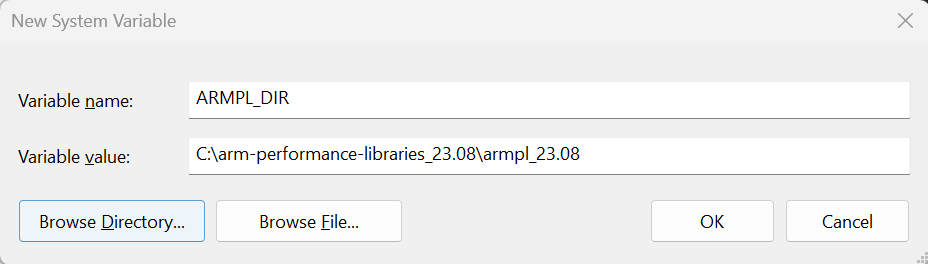
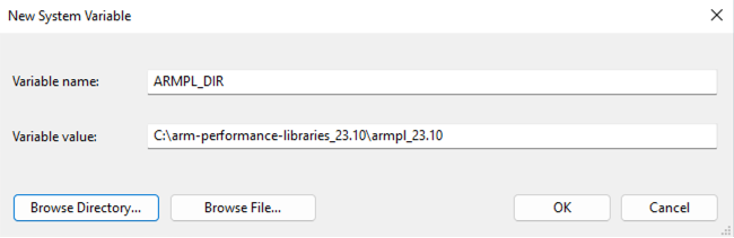
[SHOJICOMP-10872] Update armpl.md for 23.10 release version

diff --git a/themes/arm-design-system-hugo-theme/layouts/partials/general-formatting/metadata-table.html b/themes/arm-design-system-hugo-theme/layouts/partials/general-formatting/metadata-table.html
@@ -71,7 +71,7 @@ Called from:
             {{end}}
         {{ end }}
     {{end}}
-{{end}}  
+{{end}}
 
 <!-- Check if there are any matching learning paths to this tool (or the main tool) -->
 {{ if in $tools_software_languages (.Title | urlize)}}
@@ -121,7 +121,7 @@ Called from:
                         <td class="td-metadata-key">
                             Last updated:
                         </td>
-                        <td id="last-updated" class="td-metadata-value">                    
+                        <td id="last-updated" class="td-metadata-value">
                             <span><i class="fa-light fa-calendar-days fa-sm"></i></span>&nbsp; {{ .Lastmod.UTC.Format "2 Jan 2006" }}
                         </td>
                     </tr>
@@ -135,8 +135,8 @@ Called from:
                         </td>
                     </tr>
                 {{end}}
-                </table>     
-            </div>     
+                </table>
+            </div>
             <!-- RIGHT TABLE, mobile -->
             <div class="md:u-hide u-display-block">
                 <table class="width-max-content">
@@ -168,7 +168,7 @@ Called from:
                         </td>
                     </tr>
                     <tr>
-                        <td id="last-updated" class="td-metadata-value margin-l-24">                    
+                        <td id="last-updated" class="td-metadata-value margin-l-24">
                             <span><i class="fa-light fa-calendar-days fa-sm"></i></span>&nbsp; {{ .Lastmod.UTC.Format "2 Jan 2006" }}
                         </td>
                     </tr>
@@ -184,7 +184,7 @@ Called from:
                         </td>
                     </tr>
                 {{end}}
-                </table>   
+                </table>
             </div>
         </div>
         <!-- Second column table-->
@@ -204,7 +204,7 @@ Called from:
                                 {{- if $twitter_url -}}     <a href="{{$twitter_url}}"  target="_blank" aria-label="twitter"><i class="author-social-icon fab fa-twitter"></i></a>   {{- end -}}
                                 {{- if $website_url -}}     <a href='{{if in $website_url "http"}}{{$website_url | safeURL}}{{else}}https://{{$website_url | safeURL}}{{end}}'  target="_blank"  aria-label="author-social"><i class="author-social-icon fa  fa-blog"></i></a>      {{- end -}}
                             </span>
-                        </td>                        
+                        </td>
                     </tr>
                     <!-- Arm IP if learning path. Official Docs if tool -->
                     {{if $is_learning_path}}
@@ -213,7 +213,7 @@ Called from:
                                 Arm IP:
                             </td>
                             <td class="td-metadata-value">
-                                {{- range .Params.armips -}}<a href="https://developer.arm.com/Processors#q={{.}}" target="_blank" style="margin-right: 16px;">{{.}}{{ partial "general-formatting/external-link.html"}}</a>{{- end -}}    
+                                {{- range .Params.armips -}}<a href="https://developer.arm.com/Processors#q={{.}}" target="_blank" style="margin-right: 16px;">{{.}}{{ partial "general-formatting/external-link.html"}}</a>{{- end -}}
                             </td>
                         </tr>
                     {{else}}
@@ -244,7 +244,7 @@ Called from:
                                     <span class="u-flex u-flex-row u-align-items-center u-gap-1/2">
                                     <span class="fa-solid fa-tag"></span>
                                     {{ .Params.subjects }}
-                                </ads-tag> 
+                                </ads-tag>
                                 {{end}}
                                 {{ range .Params.operatingsystems }}
                                     <ads-tag    href='{{ "/" | relLangURL}}tag/{{. | urlize}}' style="margin-bottom: 4px;">
@@ -260,7 +260,7 @@ Called from:
                                         {{ . }}
                                     </ads-tag>
                                 {{ end }}
-                            </span>  
+                            </span>
                         </td>
                     </tr>
                     <!-- tool tags, if present in learning paths -->
@@ -275,14 +275,14 @@ Called from:
                                     <span class="u-flex u-flex-row u-align-items-center u-gap-1/2">
                                     <span class="fa-solid fa-tag"></span>
                                     {{$active_tag}}
-                                </ads-tag></span>                             
+                                </ads-tag></span>
                             </td>
                         </tr>
                         {{end}}
                     {{end}}
-                </table>   
+                </table>
             </div>
-            <!-- Table mobile-sized windows only -->   
+            <!-- Table mobile-sized windows only -->
             <div class="md:u-hide u-display-block">
                 <table>
                     <tr>
@@ -313,7 +313,7 @@ Called from:
                             <td class="td-metadata-value margin-l-24">
                                 {{- range .Params.armips -}}
                                     <a href="https://developer.arm.com/Processors#q={{.}}" target="_blank" style="margin-right: 16px;">{{.}}{{ partial "general-formatting/external-link.html"}}</a>
-                                {{- end -}}    
+                                {{- end -}}
                             </td>
                         </tr>
                     {{else}}
@@ -363,7 +363,7 @@ Called from:
                                         {{ . }}
                                     </ads-tag>
                                 {{ end }}
-                                </span>  
+                                </span>
                             </td>
                         </tr>
                     <!-- Tool tag, if present in learning paths -->
@@ -380,18 +380,18 @@ Called from:
                                     <span class="u-flex u-flex-row u-align-items-center u-gap-1/2">
                                     <span class="fa-solid fa-tag"></span>
                                     {{$active_tag}}
-                                </ads-tag></span>                             
+                                </ads-tag></span>
                             </td>
                         </tr>
                         {{end}}
                     {{end}}
 
-                </table>   
+                </table>
 
-            </div>                
+            </div>
         </div>
         {{if not $is_learning_path}}
             <p style="margin-top: 24px;">This guide is intended to get you up and running with this tool quickly with the most common settings. For a thorough review of all options, refer to the official documentation.</p>
         {{end}}
-    </div>            
+    </div>
 </div>

diff --git a/content/install-guides/armpl.md b/content/install-guides/armpl.md
@@ -16,6 +16,10 @@ minutes_to_complete: 10
 
 ### Link to official documentation
 official_docs: https://developer.arm.com/downloads/-/arm-performance-libraries#documentation
+reference_guide: https://developer.arm.com/documentation/101004/latest
+windows_gs: https://developer.arm.com/documentation/109361/2310/?lang=en
+macOS_gs: https://developer.arm.com/documentation/109362/2310/?lang=en
+linux_gs: https://developer.arm.com/documentation/102620/2310/?lang=en
 
 author_primary: Pareena Verma
 
@@ -29,24 +33,32 @@ layout: installtoolsall         # DO NOT MODIFY. Always true for tool install ar
 
 The [Arm Performance Libraries](https://developer.arm.com/downloads/-/arm-performance-libraries#documentation) provide developers with optimized math libraries for high performance computing applications on Arm Neoverse based hardware.
 
-These libraries include highly optimized functions for BLAS, LAPACK, FFT, sparse linear algebra, libamath and libastring. 
-These libraries are free to use and do not require a license. They can be installed either standalone or with your installation of [Arm Compiler for Linux](/install-guides/acfl). This install guide covers the standalone installation. 
+These libraries include highly optimized functions for BLAS, LAPACK, FFT, sparse linear algebra, libamath and libastring.
+These libraries are free to use and do not require a license. They can be installed either standalone or with your installation of [Arm Compiler for Linux](/install-guides/acfl). This install guide covers the standalone installation.
 
 Arm Performance Libraries are available for use on [Windows 11 on Arm](#windows), [macOS](#macos) (Apple Silicon), and [Linux](#linux) (AArch64) hosts.
+
+Below are the official documentation references:
+
+- Reference Guide: &nbsp;[Arm Performance Libraries Reference Guide](https://developer.arm.com/documentation/101004/latest)
+- Windows: &emsp;&emsp;&emsp;&nbsp;[Get started with Arm Performance Libraries (Windows version)](https://developer.arm.com/documentation/109361/2310/?lang=en)
+- MacOS: &emsp;&emsp;&emsp;&ensp;&nbsp;&nbsp;&nbsp;[Get started with Arm Performance Libraries (macOS version)](https://developer.arm.com/documentation/109362/2310/?lang=en)
+- Linux: &emsp;&emsp;&emsp;&ensp;&nbsp;&ensp;&ensp;&nbsp;[Get started with Arm Performance Libraries (stand-alone Linux version)](https://developer.arm.com/documentation/102620/2310/?lang=en)
+
 
 ## Windows {#windows}
 
 On your Windows 11 Arm machine, go to the [Arm Performance Libraries download page](https://developer.arm.com/downloads/-/arm-performance-libraries). Click on the Download Windows section. You will be prompted to review and accept the End User License Agreement before you can download the zip file. Click on the `I accept the terms of this License Agreement` checkbox and proceed to `Download` as shown below.
 
 ![win_download #center](/install-guides/_images/download-win-armpl.png)
- 
-Open your Windows File Explorer and locate the downloaded `arm-performance-libraries_23.08.zip` file. 
+
+Open your Windows File Explorer and locate the downloaded `arm-performance-libraries_23.10.zip` file.
 Extract the contents of this zip file using the "Extract all" button at the top of the Windows File Explorer.
 
 ### Update your system environment variables
 
 Using Windows Search, open `Edit the System Variables` in the `Control Panel`.
-On the `Advanced Tab` of the `System Properties` window, click on the `Environment Variables` button. 
+On the `Advanced Tab` of the `System Properties` window, click on the `Environment Variables` button.
 
 ![sys_prop #center](/install-guides/_images/windows-sys-prop.png)
 
@@ -60,23 +72,29 @@ Edit the `Path` variable to add `%ARMPL_DIR%\bin` to the list of existing direct
 
 You can now start linking your application to the Arm Performance libraries on your Windows on Arm device. Follow the examples in the included `RELEASE_NOTES` file of your extracted installation directory to get started.
 
+For more information refer to [Get started with Arm Performance Libraries (Windows version)
+Version 23.10](https://developer.arm.com/documentation/109361/2310/?lang=en)
+
 ## macOS {#macos}
 
 Go to the Download MacOS section of the [Arm Performance Libraries download page](https://developer.arm.com/downloads/-/arm-performance-libraries) and download the `dmg` file.
 Double-click on the icon of the downloaded package to mount the disk image. Alternatively, open a terminal and run the command below:
 
 ```console
-hdiutil attach armpl_23.06_flang-new_clang_16.dmg
+hdiutil attach arm-performance-libraries_23.10_macOS.dmg
 ```
 
 Now run the installation script as a superuser:
 
 ```console
-/Volumes/armpl_23.06_flang-new_clang_16_installer/armpl_23.06_flang-new_clang_16_install.sh -y 
+/Volumes/arm-performance-libraries_23.10_macOS/arm-performance-libraries_23.10_macOS_install.sh -y
 ```
 Using this command you automatically accept the End User License Agreement and the packages are installed to the `/opt/arm` directory. If you want to change the installation directory location use the `--install_dir` option with the script and provide the desired directory location.
 
 To get started, compile and test the examples included in the `/opt/arm/<armpl_dir>/examples/`, or `<install_dir>/<armpl_dir>/examples/` directory, if you have installed to a different location than the default.
+
+For more information refer to [Get started with Arm Performance Libraries (macOS version)
+Version 23.10](https://developer.arm.com/documentation/109362/2310/?lang=en)
 
 ## Linux {#linux}
 
@@ -84,23 +102,23 @@ Arm Performance Libraries are supported on most Linux Distributions like Ubuntu,
 
 [Download](https://developer.arm.com/downloads/-/arm-performance-libraries) the appropriate package for your Linux distribution and version of GCC from the Download Linux section.
 
-The instructions shown below are for an Ubuntu 22.04 AArch64 Linux Host with GCC version 11.3 installed.
+The instructions shown below are for an Ubuntu 22.04 AArch64 Linux Host with GCC version 12.2 installed.
 
 On a terminal, run the command shown below to download the appropriate package:
 ```command
-wget https://developer.arm.com/-/media/Files/downloads/hpc/arm-performance-libraries/23-04-1/ubuntu-22/arm-performance-libraries_23.04.1_Ubuntu-22.04_gcc-11.3.tar
+wget https://developer.arm.com/-/media/Files/downloads/hpc/arm-performance-libraries/23-10/ubuntu-22/arm-performance-libraries_23.10_Ubuntu-22.04_gcc-12.2.tar
 ```
 
 Use `tar` to extract the file and then change directory:
 
 ```command
-tar -xf arm-performance-libraries_23.04.1_Ubuntu-22.04_gcc-11.3.tar
-cd arm-performance-libraries_23.04.1_Ubuntu-22.04/
+tar -xf arm-performance-libraries_23.10_Ubuntu-22.04_gcc-12.2.tar
+cd arm-performance-libraries_23.10_Ubuntu-22.04/
 ```
 Run the installation script as a super user:
 
 ```command
-sudo ./arm-performance-libraries_23.04.1_Ubuntu-22.04.sh -a
+sudo ./arm-performance-libraries_23.10_Ubuntu-22.04.sh -a
 ```
 Using the `-a` switch you automatically accept the End User License Agreement and the packages are installed to the `/opt/arm` directory. If you want to change the installation directory location use the `--install-to` option with the script and provide the desired directory location.
 
@@ -127,13 +145,16 @@ module avail
 The output should be similar to:
 
 ```output
-armpl/23.04.1_gcc-11.3
+armpl/23.10_gcc-12.2
 ```
 
 Load the appropriate module:
 
 ```command
-module load armpl/23.04.1_gcc-11.3
+module load armpl/23.10_gcc-12.2
 ```
-You can now compile and test the examples included in the `/opt/arm/<armpl_dir>/examples/`, or `<install_dir>/<armpl_dir>/examples/` directory, if you have installed to a different location than the default. 
+You can now compile and test the examples included in the `/opt/arm/<armpl_dir>/examples/`, or `<install_dir>/<armpl_dir>/examples/` directory, if you have installed to a different location than the default.
+
+For more information refer to [Get started with Arm Performance Libraries (stand-alone Linux version)
+Version 23.10](https://developer.arm.com/documentation/102620/2310/?lang=en)
 

diff --git a/content/install-guides/acfl.md b/content/install-guides/acfl.md
@@ -91,11 +91,11 @@ Fetch the `ACfL` installers:
 #### Ubuntu Linux:
 
 ```bash { target="ubuntu:latest" }
-wget  https://developer.arm.com/-/media/Files/downloads/hpc/arm-compiler-for-linux/23-04-1/arm-compiler-for-linux_23.10_Ubuntu-22.04_aarch64.tar
+wget  https://developer.arm.com/-/media/Files/downloads/hpc/arm-compiler-for-linux/23-10/arm-compiler-for-linux_23.10_Ubuntu-22.04_aarch64.tar
 ```
 #### Red Hat Linux:
 ```bash { target="fedora:latest" }
-wget https://developer.arm.com/-/media/Files/downloads/hpc/arm-compiler-for-linux/23-04-1/arm-compiler-for-linux_23.10_RHEL-8_aarch64.tar
+wget https://developer.arm.com/-/media/Files/downloads/hpc/arm-compiler-for-linux/23-10/arm-compiler-for-linux_23.10_RHEL-8_aarch64.tar
 ```
 
 ### Install